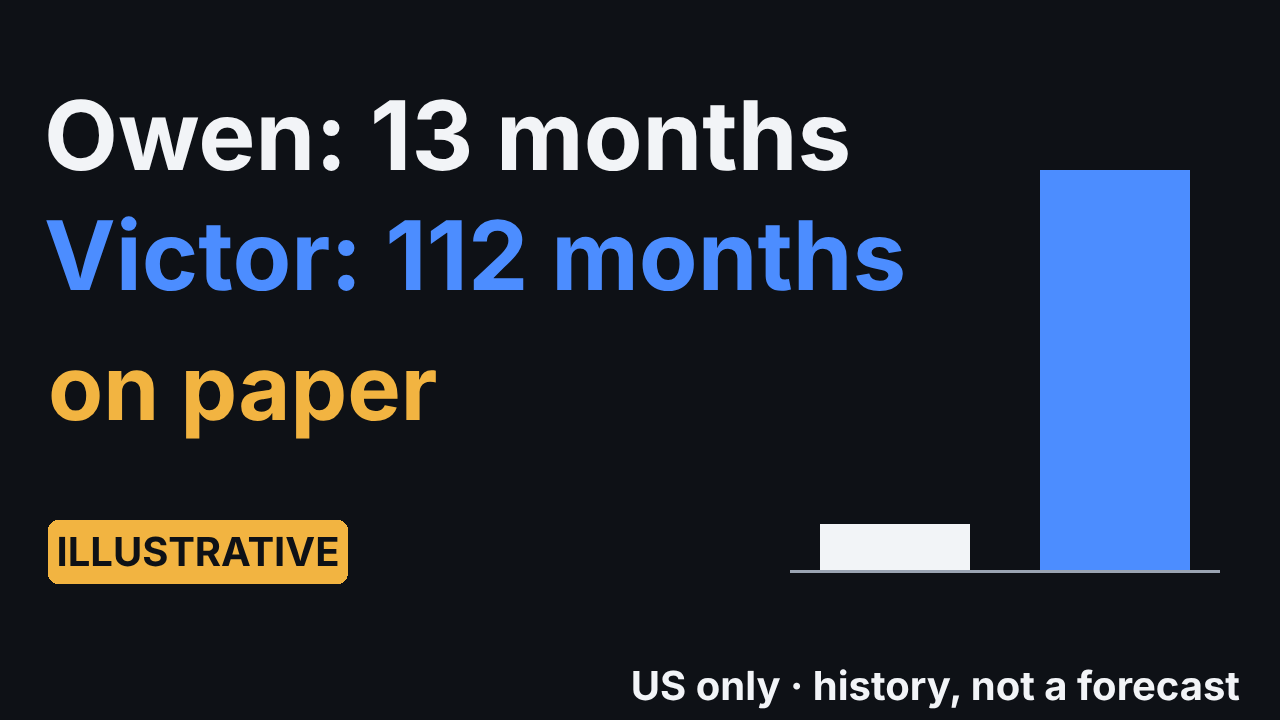
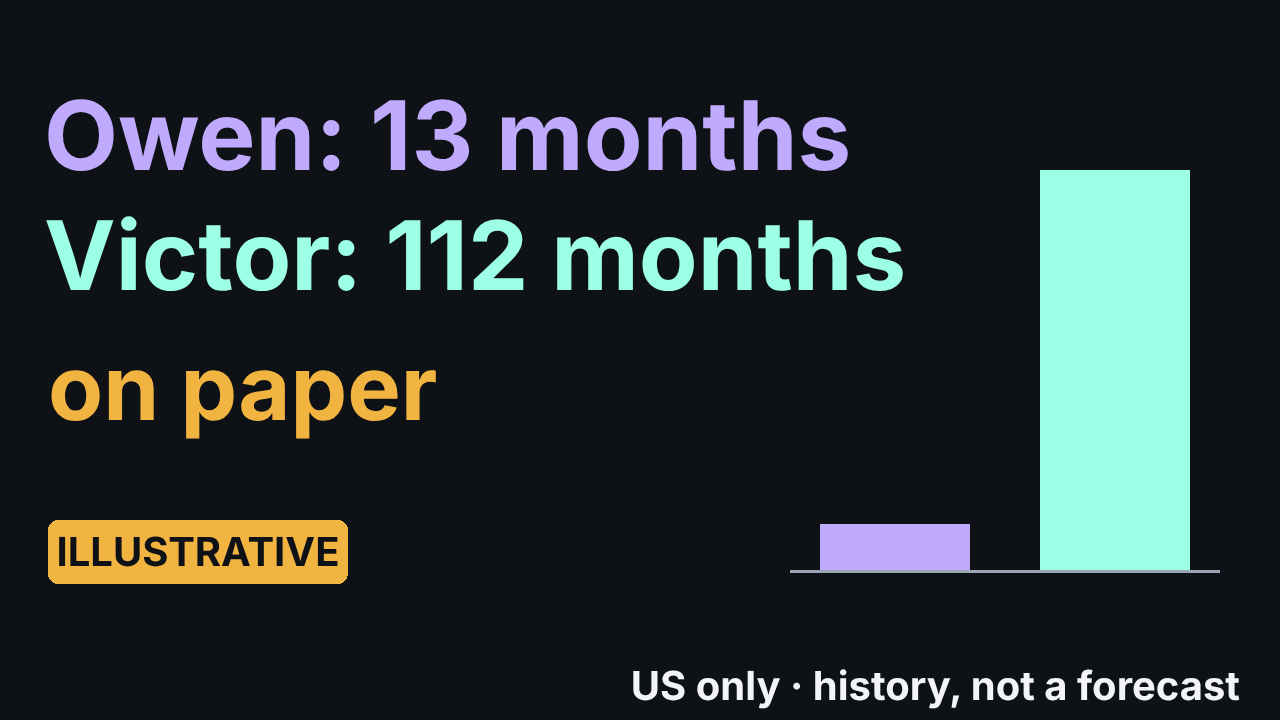
ep005 G2: REVIEWER ĐẠT có sửa — áp số âm thanh run-c5c, thumbnail kèm on paper, V11 cần chấp nhận, ghi chú nhãn Fannie Mae; thumb-3 đúng màu nhân vật; takes.json S04/S05/S15/S18 trỏ take đang dùng; explanations bỏ S09 cũ
Claude-Session: https://claude.ai/code/session_01PQkmmjiZeEmArahnX2uQGi

diff --git a/episodes/ep005/design/g2/thumbs.js b/episodes/ep005/design/g2/thumbs.js
@@ -10,6 +10,7 @@ const FONTS = path.join(EP, '..', '..', 'toolkit', 'render', 'fonts');
 const C = Object.fromEntries(JSON.parse(fs.readFileSync(path.join(EP, 'out', 'claims.json'))).claims.map((c) => [c.claimId, c]));
 const d = (id) => { if (!C[id] || C[id].display == null) throw new Error('claim ' + id); return C[id].display; };
 const TK = JSON.parse(fs.readFileSync(path.join(EP, 'design', 'tokens.json'))).colors;
+const OWEN = TK['buyer-owen'], VICTOR = TK['buyer-victor'];
 const BG = TK.bg, INK = TK.ink, WARN = TK.warn, MUTE = TK['ink-muted'], BLUE = TK.accent, GRID = TK.grid;
 const BARS = JSON.parse(fs.readFileSync(path.join(EP, 'work', 'world-data', 'derived.json'))).bars;
 if (BARS.length !== C.nB.value) throw new Error('bars ≠ nB');
@@ -53,10 +54,10 @@ function thumb3() { // Owen 13 vs Victor 112 months on paper — ILLUSTRATIVE bu
   const yb = 570, hTop = 400, max = C.buyer_victor_monthsTo80Index.value, bw = 150, xo = 820, xv = 1040;
   const ho = hTop * C.buyer_owen_monthsTo80Index.value / max, hv = hTop * C.buyer_victor_monthsTo80Index.value / max;
   const bd = badge(48, 520, ['buyer_owen_monthsTo80Index', 'buyer_victor_monthsTo80Index']);
-  const body = `<rect x="${xo}" y="${yb - ho}" width="${bw}" height="${ho}" fill="${INK}"/><rect x="${xv}" y="${yb - hv}" width="${bw}" height="${hv}" fill="${BLUE}"/>` +
+  const body = `<rect x="${xo}" y="${yb - ho}" width="${bw}" height="${ho}" fill="${OWEN}"/><rect x="${xv}" y="${yb - hv}" width="${bw}" height="${hv}" fill="${VICTOR}"/>` +
     `<rect x="${xo - 30}" y="${yb}" width="${xv + bw - xo + 60}" height="3" fill="${MUTE}"/>` + bd.svg;
-  const texts = [T('h1', 44, 170, 96, `Owen: ${months('buyer_owen_monthsTo80Index')}`, ['buyer_owen_monthsTo80Index']),
-    T('h2', 44, 290, 96, months('buyer_victor_monthsTo80Index').replace(/^/, 'Victor: '), ['buyer_victor_monthsTo80Index'], { fill: BLUE }),
+  const texts = [T('h1', 44, 170, 96, `Owen: ${months('buyer_owen_monthsTo80Index')}`, ['buyer_owen_monthsTo80Index'], { fill: OWEN }),
+    T('h2', 44, 290, 96, months('buyer_victor_monthsTo80Index').replace(/^/, 'Victor: '), ['buyer_victor_monthsTo80Index'], { fill: VICTOR }),
     T('h3', 48, 420, 90, 'on paper', ['buyer_owen_monthsTo80Index', 'buyer_victor_monthsTo80Index'], { fill: WARN }), foot()];
   return { body, texts, badgeClaims: bd.claims, graphics: { claims: ['buyer_owen_monthsTo80Index', 'buyer_victor_monthsTo80Index'],
     what: 'two bars, height = months to 80% on paper for the two ILLUSTRATIVE buyers (Owen 13, Victor 112, same scale, no axis numbers). ILLUSTRATIVE badge.' } };

diff --git a/episodes/ep005/gates/REVIEW-G2.md b/episodes/ep005/gates/REVIEW-G2.md
@@ -1,0 +1,98 @@
+# REVIEW-G2 — Tập 5 (REVIEWER, 2026-10-08, nhánh `ep005` @ `c96cea4`)
+
+**Kết luận: ĐẠT có sửa.** Video không có CHẶN. Các sửa dưới đây đều nằm ở giấy tờ (G2.md, explanations.json, sổ sách). Không cần dựng lại.
+
+## R1 — không nêu số tiền phí PMI: **R1: 0**
+- **Lời** (`out/script.json`, 68 câu, cả `text` lẫn `spoken`): có 0 số tiền hay tỉ lệ phí đứng cạnh PMI/insurance. S04.3 "this video puts no dollar figure on it", S06.3 "Taxes, home insurance and the mortgage insurance all come on top of it" đều không kèm số.
+- **Hình:**
+  - Lấy 155 khung từ `review-g2/full-720p.mp4` (cứ 3 s một khung) và đọc hết.
+  - Thêm 8 khung S03.3 lấy dày (36–43 s) và 8 khung cuối S17 (387,5–391,5 s).
+  - Có 0 vi phạm.
+  - Chỗ sát nhất là S06 (≈1:51): "taxes, home insurance and PMI on top" nằm ngay trên "$2,362/month · principal + interest". Đây là khoản gốc + lãi có claim và ghi rõ PMI tính thêm, nên mục "Không tính" loại trừ nó. Không vi phạm.
+  - S04 có nhãn "cost: not shown in this video", đúng R1.
+- **Shorts** SH1/SH2/SH3 (35 khung): 0. **Thumbnail** 1/2/3: 0. **Tiêu đề** T1: 0. **Mô tả**: 0. Mô tả có câu "this video puts no dollar figure on it".
+
+## Gen được bảo vệ (CHARTER §4): đạt
+- **Không khuyên, không dự báo:**
+  - Mọi khung có số đều có dòng chân "Past buyers, measured · not a reason to buy, rent or wait" hoặc "A measurement, not a next step".
+  - Nhãn lựa chọn S01/S18.6 "buying now + mortgage insurance" / "still renting, still saving" là mô tả trung tính: không mệnh lệnh, không số.
+  - Mốc "a plan" ở S18 có kèm "≈ 2 years matched the typical month — not the slow ones, not the lender's step". Đây là nghĩa thận trọng, không phải lời khuyên. Kiểm mù so đủ mẫu cũng cho khuyên 0/6 ở C5c.
+- **"US only" và "history, not a forecast":** có trên mọi khung dữ liệu, ở thẻ phương pháp, cuối phim, trên Shorts, thumbnail và mô tả.
+- **ILLUSTRATIVE:** có trên Owen, Grace, Victor, ví dụ $400,000, các khung luật, thumb-3 và cả ba Short.
+- **"on paper":** có trên mọi số đếm, gồm 23 months, 13, 112, 14.7 %, "80% on paper", "from about 1 year to more than 9 years · on paper" và các thumbnail.
+- **Phạm vi Fannie Mae:**
+  - S03.3 nói "for Fannie Mae loans, that's a waiting period and a 75 percent bar". S12.3 nói "the 75 percent bar Fannie Mae sets for its loans … a separate route from the law's schedule". Cả hai đúng phạm vi.
+  - Nhãn `Fannie Mae: wait ≥ 2 years · loan ≤ 75%` **có trên hình**, nhưng chỉ ≈ 1,0 s (41,0–42,0 s, ngay trước khi cắt sang ba người mua).
+  - Animatic C4 cũng vậy (≈ 41,4–42,4 s), nên không phải hồi quy. Lời và nguồn "Fannie Mae Servicing Guide B-8.1-04" đã mang phạm vi.
+  - Không CHẶN. Ghi lại cho tập sau: nhãn nên hiện cùng chữ "Fannie Mae" (≈ 38 s).
+- S12 có nhãn "Fannie Mae's early bar" và nguồn "Fannie Mae B-8.1-04". Đạt.
+
+## Đối chiếu số trong G2.md với nguồn
+| Mục G2 | Nguồn | Kết quả |
+|---|---|---|
+| CHẶN 35/35, CHÍNH 9/11 (F07, V11), Tập ĐẠT, khoá `d93276a4` | `run-c5c/report.md` | khớp. Master SHA `d2a04ca7…` khớp `out/video.mp4`; 720p `7a929ef7…` khớp `.sha256` |
+| 7:46 | F07 465,67 s | khớp |
+| 12/12 nhịp loại 1 ở C4; chốt chặn có lời S06 3/3, S13 3/3, khuyên 0 | `C4-root.md` | khớp |
+| B02 6/6 so với 5/6; B18 5/6 so với 1/6 | `C5-root.md`, `c5/cmp-c4-c5c/scores.json` | khớp (tôi đếm lại 24 nhãn). Dải C5c cắt từ master `d2a04ca7` (`strips.json`). Phép so ghi trước (`b4b0356`), rồi mới chạy (`9886777`) |
+| "kiểm lại 8 nhịp" | `strip-spans.json` | 8 mục, nhưng gồm cả N2: thực tế là 7 nhịp loại 1 + N2 (sửa 3) |
+| ASR 20/20; S04 seed 1007; S15 seed 1006 | `asr-all.json`, `S04/S15-seeds.json` | khớp. Tôi chạy ASR medium.en lại trên master: S04 có "the lender if"; S15 "Grace bought" rõ; S05.1 "in dollars of the day" đúng |
+| Nghiêng ≤ 2,21° | `fly-report.json` | 22 lần di chuyển kiểu fly, max 2,21°, tất cả pass |
+| −14,0 LUFS / −1,9 dBTP | A01/A02 run-c5c | khớp |
+| **nhạc dưới lời 19,6 dB; né dải 1–4 kHz 13,5 dB** | A07 = 19,53; A08 = 13,08 (run-c5c) | **sai: số của run-c5** (19,56 / 13,52) (sửa 1) |
+| F08 không còn dải màu | F08 0,33 % ≤ 5 | khớp |
+| Shorts 22,7 / 37,8 / 43,5 s, 1080×1920 | ffprobe; SH01–SH05 PASS | khớp |
+| EL 1.672 (812 + 604 + 256); cả tập 10.850 | `ledger.md` | khớp: 1.234 + 410 + 4.887 + 938 + 1.266 + 443 + 1.416 + 256 = 10.850 |
+| Token ≈ 7 triệu từ C3; ≈ 10 triệu cả tập | `ledger.md` | **không kiểm được**: tổng cột token của ledger chỉ ≈ 3,56 triệu, vì thiếu dòng sau C5b (sửa 6). Phần kiểm mù cộng từ các phiếu: C4 ≈ 1,02 triệu + C5 ≈ 0,74 triệu ≈ 1,8 triệu. G2 ghi "≈ 2,0", chấp nhận được |
+| P01 4 chữ < 90 px | run-c5c | khớp |
+
+## Thay đổi từ C4 (nghĩa và R1)
+- **S05.1 "in dollars of the day"** cùng chân "All $ in dollars of the day" và "median new home sold Q2 2026: $410,700": nhất quán với lời "a little under the national median price of new homes sold from April through June". Không đổi nghĩa, R1 sạch.
+- **Nhãn lựa chọn S01/S18.6:** trung tính, không số, không khuyên. Đạt.
+- **Màu người mua mới** (Grace hồng, Owen tím nhạt, Victor xanh bạc hà):
+  - Rõ và nhất quán trong video và Shorts.
+  - Riêng **thumb-3** tô Victor màu **xanh dương**, trong khi xanh dương ở video là đường chỉ số giá và màu nhấn. Không chặn, chỉ nên thống nhất nếu còn thời gian.
+- **Tấm nền (plates):** chữ dễ đọc. Đây là gốc số đếm V11 (xem sửa 4).
+
+## sync_audit đoạn d (S15–S20)
+- **`a5.renting`:** cue trong `world/c4/d-s15-s20/spine.json` vẫn mang nhãn cũ "keep renting, keep saving". Chữ trên hình (scene.js dòng 191) đã là "still renting, still saving", nên kiểm đồng bộ tìm không ra chữ, tức báo trượt giả. Trên hình, hai nhãn hiện đúng lúc (khung 144–145). Không ảnh hưởng video, chỉ sửa sổ (sửa 8).
+- **`v3.show`:** "not in this data" hiện mờ, chỉ ≈ 0,5 s ở cuối S17 (≈ 388,5–389 s), sau chữ "show", rồi cắt. Lời "this data can't show" và ngôi nhà có "?" đã mang nghĩa, nên không quan trọng với nghĩa. Ghi lại cho tập sau.
+
+## Mô tả (`out/package/description.md`)
+- Chương khớp với các act trong `out/timeline.json`:
+  - 0:00 cold-open;
+  - 0:58 act1 (58,0);
+  - 3:09 act2 (189,03);
+  - 5:21 act3 (321,67);
+  - 7:14 method (434,97: làm tròn xuống 0,97 s, chấp nhận);
+  - 7:25 outro (445,73).
+  - Mọi chương ≥ 10 s.
+- Số khớp claim: 23 months, 307 tháng (01/1991–07/2016), 403 tháng (01/1991–07/2024), 80 %/78 %, 4902, B-8.1-04. "We" chỉ người phân tích.
+- Không lỗi chính tả. Lỗi lặp "months months" đã sửa ở `77d1f7b`.
+- Không cần sửa.
+
+## Sửa (cũ → mới)
+**G2.md**
+1. `nhạc dưới lời 19,6 dB, né dải 1–4 kHz 13,5 dB` → `nhạc dưới lời 19,5 dB, né dải 1–4 kHz 13,1 dB`
+2. `mọi số 80 % kèm "on paper";` → `mọi số đếm (23 months, 14.7 %, 13/112 months) kèm "on paper";` (thumbnail không có số 80 %)
+3. `kiểm lại 8 nhịp có hình đổi đáng kể` → `kiểm lại 7 nhịp loại 1 có hình đổi đáng kể (+ N2)`
+4. Dưới gạch V11, thêm: `CHÍNH chưa sửa → theo CHARTER §5 cần anh chấp nhận ngoại lệ (A22 mới là đề xuất).` Dòng **Trả lời gọn** thêm ` · V11: chấp nhận/sửa`.
+5. Thêm một dòng về các bản trước/sau mà C4-root đã hứa: `revert-B02/B18.mp4: thay bằng phép so đủ mẫu C5c (giữ C5c); S13 giữ bản v2 — trước/sau ở review-g2/revert-B13.mp4 nếu anh muốn xem.`
+6. Mục **Số đo**: `Token ước ≈ 7 triệu` → `Token ước ≈ 7 triệu (ledger chưa ghi đủ: tổng cột hiện ≈ 3,6 triệu)`, **hoặc** bổ sung `ledger.md` các dòng còn thiếu:
+   - các vòng kiểm mù C4 r1/r2/r3/b11;
+   - C5b/C5c dựng;
+   - C5b r1/r1x/voiced;
+   - C5c r2;
+   - cmp-c4-c5c 296.448 + 46.325;
+   - REVIEWER G2.
+
+**out/explanations.json**
+7. `"_about": "C5b (out/checks/run-c5b, LOCK d93276a4)…"` → `"_about": "C5c (out/checks/run-c5c, LOCK d93276a4)…"`; trong `V11`: `"2,605 samples"` → `"2,612 samples"`. Mục `S09` đã cũ: S09 là CHẶN và đã PASS, nên **xoá** mục này. Nếu muốn giữ để tham khảo thì `"0 extra ElevenLabs characters in this build"` → `"EL 256 characters (ledger, C5)"`.
+
+**Sổ sách (không ảnh hưởng video)**
+8. `world/c4/d-s15-s20/spine.json`: `"a5.renting": "keep renting, keep saving"` → `"a5.renting": "still renting, still saving"`.
+9. `out/voice/takes.json`:
+   - S04 `"raw": "voice-takes/0ecc4f7fd0ca5b35.mp3"` → `"voice-takes/68d5dbe4da841180.mp3"`;
+   - S15 `"raw": "voice-takes/98a63f707efd4dfa.mp3"` → `"voice-takes/b0d912d29478ac29.mp3"`.
+   - Hiện đường dẫn trỏ vào take seed 1005 nhưng trường seed ghi 1007/1006. Master thực tế dùng take mới (đã kiểm bằng ASR). Cùng lỗi cũ ở `review-c4/asr-all.json` cho S05/S15.
+
+## CHẶN trong video: không có.

diff --git a/episodes/ep005/gates/G2.md b/episodes/ep005/gates/G2.md
@@ -1,17 +1,17 @@
 # G2 — Tập 5 (format `101`, PMI với 10 % trả trước) · 2026-10-08
 
-**Xem một lần, rồi chấm phiếu L3 (§ dưới).** Bản đầy đủ 720p: `review-g2/full-720p.mp4` (7:46, SHA-256 `7a929ef7…`) · clip nổi bật `review-g2/highlights.mp4` · master 1080p `out/video.mp4` (SHA-256 `d2a04ca7…`, giao ở G3) · Shorts `review-g2/short-SH1/2/3.mp4` · thumbnail `review-g2/thumb-1/2/3.png` · mô tả `out/package/description.md` · hướng dẫn đăng `HUONG-DAN-DANG.md`.
+**Xem một lần, rồi chấm phiếu L3 (§ dưới).** Bản đầy đủ 720p: `review-g2/full-720p.mp4` (7:46, SHA-256 `7a929ef7…`) · clip nổi bật `review-g2/highlights.mp4` · master 1080p `out/video.mp4` (SHA-256 `d2a04ca7…`, giao ở G3) · Shorts `review-g2/short-SH1/2/3.mp4` · thumbnail `review-g2/thumb-1/2/3.png` (thumb-3 sinh lại sau REVIEWER: màu Owen/Victor đúng màu nhân vật) · mô tả `out/package/description.md` · hướng dẫn đăng `HUONG-DAN-DANG.md`.
 
 ## 1. Bản cuối — duyệt phát hành? (phiếu L3 ≥ 4 ở mọi dòng, D-009 d)
 - **Checks khoá `d93276a4` (`out/checks/run-c5c/`): Tập ĐẠT — CHẶN 35/35, không hồi quy.** CHÍNH 9/11, hai luật còn lại:
   - F07 (7:46 < 8:00): quyết định của anh 08/10 (giữ độ dài, không độn, không mid-roll).
-  - V11: đã sửa hết chỗ chữ đè thật; số đếm còn lại là chữ nằm trên tấm nền của chính nó (luật đếm tấm nền như chữ) → đề xuất `checks-appeal.md` A22.
-- **Cổng gốc (kiểm mù tắt tiếng): 12/12 nhịp loại 1 đạt** ở C4. Sau các sửa checks ở C5, kiểm lại 8 nhịp có hình đổi đáng kể: nghĩa không thấp hơn C4. B02 và B18 xác nhận bằng phép so đủ mẫu ghi trước (6 người đọc mỗi dải): B02 6/6 so với C4 5/6, B18 5/6 so với C4 1/6. **Chốt chặn có lời S06/S13 (điều kiện C3 của anh): 3/3 + 3/3, khuyên 0.**
+  - V11: đã sửa hết chỗ chữ đè thật; số đếm còn lại (2.612) là chữ nằm trên tấm nền của chính nó (luật đếm tấm nền như chữ) → đề xuất `checks-appeal.md` A22. **V11 vẫn là CHÍNH chưa sửa theo luật hiện hành → cần anh chấp nhận ngoại lệ** (A22 mới là đề xuất).
+- **Cổng gốc (kiểm mù tắt tiếng): 12/12 nhịp loại 1 đạt** ở C4. Sau các sửa checks ở C5, kiểm lại 7 nhịp loại 1 có hình đổi đáng kể (+ N2): nghĩa không thấp hơn C4. B02 và B18 xác nhận bằng phép so đủ mẫu ghi trước (6 người đọc mỗi dải): B02 6/6 so với C4 5/6, B18 5/6 so với C4 1/6. **Chốt chặn có lời S06/S13 (điều kiện C3 của anh): 3/3 + 3/3, khuyên 0.**
 - **Giọng:** ASR medium so từng từ 20/20 cảnh. Đã sửa 2 lỗi giọng tìm được bằng cách này: S04 rơi "the lender if" (seed 1007), S15 "Grace" nghe không rõ (seed 1006). Thêm S05.1 "in dollars of the day" theo S09 (a).
 - **Hình–âm:**
   - Mọi lần chuyển chế độ dùng máy quay bay (F-1), nghiêng ≤ 2,21°.
   - Nhạc theo bản đồ căng, chốt V→I đúng chữ "removed".
-  - −14,0 LUFS / −1,9 dBTP; nhạc dưới lời 19,6 dB, né dải 1–4 kHz 13,5 dB; không còn dải màu (F08).
+  - −14,0 LUFS / −1,9 dBTP; nhạc dưới lời 19,5 dB, né dải 1–4 kHz 13,1 dB; không còn dải màu (F08).
 - **Đã sửa theo nhận xét lặp ở cả hai lượt đạo diễn độc lập:**
   - 0:42 ba người mua có tên và màu riêng;
   - S07 khung đủ cả đường cong;
@@ -26,7 +26,7 @@
 ## 2. Tiêu đề + thumbnail
 - **Tiêu đề T1** (đã duyệt G1): *10% Down and Mortgage Insurance: How Long Did It Last?*
 - **3 thumbnail** đều qua claim-risk:
-  - mọi số 80 % kèm "on paper";
+  - mọi số đếm (23 months, 14.7 %, 13/112 months) kèm "on paper";
   - thumb-3 có nhãn ILLUSTRATIVE;
   - không nêu số tiền phí PMI (R1).
 - Còn P01 (THAM KHẢO): 4 chữ nhỏ dưới 90 px (dòng chân "US only · history, not a forecast" và nhãn ILLUSTRATIVE).
@@ -44,6 +44,8 @@
 
 ## Ngoại lệ và quyết định đã ghi
 - F07 / không mid-roll: quyết định của anh 08/10; bài học `lessons.md` T5-1.
+- Trước/sau C4 (`review-g2/revert-B02/B13/B18.mp4`): các chỗ hoàn ở C4 theo khoá nghĩa đã được thay bằng bản C5c (B02, B18 nghĩa ≥ C4 bằng phép so đủ mẫu; S13 qua chốt chặn có lời) — clip giữ để anh tham khảo, không cần chọn.
+- Biết, chưa sửa (không chặn): nhãn `Fannie Mae: wait ≥ 2 years · loan ≤ 75%` chỉ hiện ≈ 1 s (41–42 s; như C4) — ngắn hơn luật nhãn 1 s/3 từ; có thể kéo dài nếu anh yêu cầu sửa sau L3 (dựng lại đoạn a ≈ 0,3 h + checks ≈ 1 h). "not in this data" mờ ≈ 0,5 s cuối S17.
 - S09 (a): đổi lời S05.1, anh duyệt.
 - N1/N2: ngoại lệ C3; chốt chặn có lời đạt.
 - **Đề xuất lô K:**
@@ -52,7 +54,7 @@
   - A22: V11 tách chữ khỏi tấm nền.
 
 ## Số đo (từ C3 duyệt 07/10 đến G2)
-- **Token ước ≈ 7 triệu:**
+- **Token ước ≈ 7 triệu** (số ước: ledger chưa ghi đủ từng dòng từ C4; tổng cột ledger hiện ≈ 3,6 triệu):
   - agent con dựng/sửa/đạo diễn ≈ 4,5 triệu;
   - kiểm mù headless ≈ 2,0 triệu;
   - REVIEWER + điều phối ≈ 0,5 triệu.
@@ -75,4 +77,6 @@
 | 5 | Giọng tự nhiên, ổn định, một màu? | — | |
 | 6 | Tôi có muốn xem tập tiếp theo? | — | |
 
-**Trả lời gọn:** `L3: a·b·c·d·e·f · phát hành: có/không · thumb mặc định: 1/2/3 · T&C: … · Shorts: OK/sửa · S17.3: giữ/đổi`
+REVIEWER: `gates/REVIEW-G2.md` — ĐẠT có sửa (đã áp); video không có CHẶN; R1 = 0.
+
+**Trả lời gọn:** `L3: a·b·c·d·e·f · phát hành: có/không · thumb mặc định: 1/2/3 · T&C: … · Shorts: OK/sửa · S17.3: giữ/đổi · V11: chấp nhận/sửa · nhãn Fannie Mae: giữ/kéo dài`
